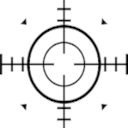
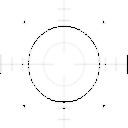
2024/8/29

diff --git a/var/www/html/FieldGuide/field_guide.js b/var/www/html/FieldGuide/field_guide.js
@@ -20,6 +20,13 @@ function start_field_guide(guide) {
     btn_get_info.onclick = clickGetInfo;
 
 
+    let myopia = document.querySelector("#myopia");
+    myopia.onclick = click_myopia;
+    let noropia = document.querySelector("#noropia");
+    noropia.onclick = click_noropia;
+    let hyperopia = document.querySelector("#hyperopia");
+    hyperopia.onclick = click_hyperopia;
+
     let init_guide = document.querySelector("#init_guide");
     init_guide.onclick = click_init_guide;
     let refline_start = document.querySelector("#refline_start");
@@ -47,6 +54,21 @@ function start_field_guide(guide) {
     }
 }
 
+function click_myopia() {
+    field_guide.updateToCamera(45, 45);
+    clickUpdate();
+    msg("近視");
+}
+function click_noropia() {
+    field_guide.updateToCamera(90, 90);
+    clickUpdate();
+    msg("通常視");
+}
+function click_hyperopia() {
+    field_guide.updateToCamera(180, 180);
+    clickUpdate();
+    msg("遠視");
+}
 function click_init_guide() {
     let init_guide = document.querySelector("#init_guide");
     init_guide.blur();
@@ -61,6 +83,7 @@ function click_init_guide() {
     jsondata["経路"] = [];
     setResult(jsondata);
     msg("経路情報と基準線情報を消しました。")
+    window.location.reload();
 }
 function click_refline_start() {
     console.log("基準起点");
@@ -73,7 +96,7 @@ function click_refline_start() {
     }
     setResult(jsondata);
     clickUpdate();
-    msg("基準線の起点を設定しました。");
+    msg("基準列の起点を設定しました。");
 }
 function click_refline_end() {
     console.log("基準終点");
@@ -86,7 +109,7 @@ function click_refline_end() {
     }
     setResult(jsondata);
     clickUpdate();
-    msg("基準線の終点を設定しました。");
+    msg("基準列の終点を設定しました。");
 }
 function click_work_width_3200() {
     let jsondata = getResult();
@@ -102,13 +125,8 @@ function click_work_width_16000() {
     jsondata["作業幅"] = work_width;
     setResult(jsondata);
     clickUpdate();
-    msg("作業幅の表示を16m（BSA-651など）に設定しました。");
+    msg("作業幅の表示を16m（ハイクリブームBSA-651など）に設定しました。");
 }
-
-
-
-
-
 
 function rad(degrees) {
     return degrees * Math.PI / 180;
@@ -152,11 +170,10 @@ function clickToCamera() {
     console.log("clickUpdate");
     let to_camera = document.querySelector("#to_camera");
     let n = to_camera.value.split(",");
-    let x = Number(n[0]);
-    let y = Number(n[1]);
-    let z = Number(n[2]);
-    console.log("clickUpdate x=" + x + ", y=" + y + ", z=" + z);
-    field_guide.updateToCamera(x, y, z);
+    let z = Number(n[0]);
+    let mz = Number(n[1]);
+    console.log("clickUpdate z=" + z + ", mz=" + mz);
+    field_guide.updateToCamera(z, mz);
 }
 
 function clickGetInfo() {
@@ -167,6 +184,7 @@ function clickGetInfo() {
     control_info.value = JSON.stringify(info, null, 3);
     console.log("clickGetInfo <<<< end");
 }
+
 function getIdoKeidoPoint(s_ido, s_keido, ido, keido) {
     let n_ido = Number(ido);
     let n_keido = Number(keido);
@@ -260,13 +278,11 @@ function clickUpdate() {
     }
     field_guide.updateLine(points);
     // 直交点の処理
-    if (rls["緯度"]) {
-        if (rle["緯度"]) {
+    if (rls && rls["緯度"]) {
+        if (rle && rle["緯度"]) {
             let rvec = unitVec({ x:(rls_x - rle_x), y:(rls_y - rle_y)});
             console.log("基準線" + rvec.r + ",x=" + rvec.x + ",y=" +  rvec.y);
             // 内積
-            //let dvec =  unitVec({ x:(fx - rle_x), y:(rls_y - rle_y)});
-            //console.log()
             let r = rvec.x * (fx - rle_x) + rvec.y * (fy - rle_y);
             maru_x = rle_x + r * rvec.x;
             maru_y = rle_y + r * rvec.y;
@@ -275,10 +291,10 @@ function clickUpdate() {
             let nvec = unitVec({ x:(fx - maru_x), y:(fy - maru_y)});
             next_r = Math.round(nvec.r / work_width) * work_width;
             console.log("四捨五入" + next_r);
-            field_guide.setApproach(4, maru_x + next_r * nvec.x, -(maru_y + next_r * nvec.y), -2, 6);
+            field_guide.setApproach(4, maru_x + next_r * nvec.x, -(maru_y + next_r * nvec.y), 3, 6);
             next_r += work_width;
             console.log("切り上げ" + next_r);
-            field_guide.setApproach(5, maru_x + next_r * nvec.x, -(maru_y + next_r * nvec.y), -2, 3);
+            field_guide.setApproach(5, maru_x + next_r * nvec.x, -(maru_y + next_r * nvec.y), -1, 3);
         }
     }
 }
@@ -306,8 +322,8 @@ function addIdoKeido(ido, keido) {
         console.log("経度：" + keido + "|" + last_keido);
         let d = distance(Number(ido), Number(keido), Number(last_ido), Number(last_keido));
         console.log("距離" + d);
-        if (d < 1.5) {
-            // 1.5m以下は追加しない。
+        if (d < 1) {
+            // 1m以下は追加しない。
             return;
         }
         if (d > 100) {
@@ -330,5 +346,5 @@ function handlePositon(pos) {
 function msg(m) {
     let msg_bar = document.querySelector("#msg_bar");
     msg_bar.value = m;
-    msg_bar.focus();
+    // msg_bar.focus();
 }

diff --git a/var/www/html/FieldGuide/three-lesson1.html b/var/www/html/FieldGuide/three-lesson1.html
@@ -26,11 +26,11 @@
       ctrl_info.i_height = height;
       ctrl_info.i_width = width;
 
-
       let to_camera = {};
       to_camera.x = 0; 
       to_camera.y = 0;
       to_camera.z = 100;
+      to_camera.max_z = 90;
       const camera = new THREE.PerspectiveCamera( 45, width / height, 1, 500 );
       console.log("幅:" + height);
       camera.position.set( to_camera.x, to_camera.y, to_camera.z );
@@ -90,11 +90,11 @@
           } else {
             to_camera.z = width * max / width * 3;
           }
+          if (to_camera.z > to_camera.max_z) {
+            to_camera.z = to_camera.max_z;
+          }
           if (to_camera.z < 20) {
             to_camera.z = 20;
-          }
-          if (to_camera.z > 120) {
-            to_camera.z = 120;
           }
           lpoints.push( new THREE.Vector3(p[i][0], p[i][1], p[i][2]) );
         }
@@ -110,17 +110,17 @@
         let vec = { x:(to_camera.x - cur_x), y:(to_camera.y - cur_y)};
         vec = unitVec(vec);
         console.log(vec);
-        if (vec.r > 50) {
-          vec.r = 50;
+        // カメラ半径
+        if (vec.r > (to_camera.max_z / 5)) {
+          vec.r = (to_camera.max_z / 5);
           to_camera.x = cur_x + vec.r * vec.x;
           to_camera.y = cur_y + vec.r * vec.y;
         }
         renderer.render( scene, camera );
       };
-      field_guide.updateToCamera = function(x, y, z) {
-        to_camera.x = x;
-        to_camera.y = y;
-        to_camera.z = z;        
+      field_guide.updateToCamera = function(z, mz) {
+        to_camera.z = z;
+        to_camera.max_z = mz;
       }
       field_guide.getInfo = function() {
         return { "カメラ位置" : to_camera, "制御情報" : ctrl_info };
@@ -246,10 +246,14 @@
     <ul class="dropmenu">
       <li><a href="#">☰</a>
       <ul>
-          <li><a id="refline_start">基準線　起点</a></li>
-          <li><a id="refline_end">基準線　終点</a></li>
-          <li><a id="work_width_3200">作業幅3.2m</a></li>
-          <li><a id="work_width_16000">作業幅16m</a></li>
+        <li><a id="refline_start">列始め</a></li>
+          <li><a id="refline_end">列終り</a></li>
+          <li><a id="work_width_3200">幅3.2m</a></li>
+          <li><a id="work_width_16000">幅16m</a></li>
+          <li><a id="myopia">近視</a></li>
+          <li><a id="noropia">通常</a></li>
+          <li><a id="hyperopia">遠視</a></li>
+          <li><br/></li>
           <li><a id="init_guide">最初から</a></li>
       </ul>
       </li>
@@ -257,7 +261,7 @@
   <canvas id="myCanvas"></canvas>
   <br/>
   <input id="msg_bar" style="width: 100%;"/>
-  <textarea id="result" style="width: 100%;" rows="16">
+  <textarea id="result" style="width: 100%;">
 {
   "基準起点": {},
   "基準終点": {},
@@ -267,7 +271,7 @@
     </textarea>
     <input id="idokeido" placeholder="緯度,経度" /><button id="addIdoKeido">経路追加</button>
     <button id="update">更新</button>
-    <input id="to_camera" placeholder="x, y, z" value="0, 0, 100"/>
+    <input id="to_camera" placeholder="z, 最大z" value="100, 100"/>
     <button id="btn_to_camera">カメラ位置</button>
     <button id="btn_get_info">制御情報表示</button>
     <textarea id="control_info" style="width: 100%;" rows="16">

diff --git a/var/www/html/FieldGuide/three-lesson1.css b/var/www/html/FieldGuide/three-lesson1.css
@@ -39,7 +39,7 @@ body {
   color: black;
   border:solid 1px black;
   width:100%;
-  height:300px;
+  height:100px;
 }
 .btnmenu {
   margin:5px;
@@ -62,8 +62,7 @@ body {
 }
 
 input, button, textarea {
-  height: 44px;
-  width: 300px;
+  width: 100px;
 }
 textarea {
   height: 80px;
@@ -114,7 +113,7 @@ textarea {
   z-index: 9999;
   top: 100%;
   left: 0;
-  width: 120px;
+  width: 66px;
   margin: 0;
   padding: 0;
 }
